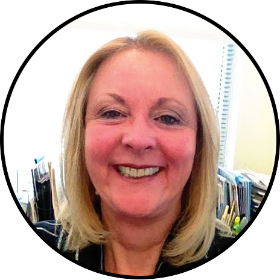
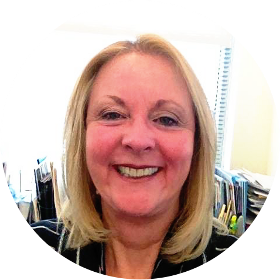
remove portrait border, add backdrop image, fix large screen styles

diff --git a/index.html b/index.html
@@ -26,7 +26,6 @@
     <p class="browserupgrade">You are using an <strong>outdated</strong> browser. Please <a href="https://browsehappy.com/">upgrade your browser</a> to improve your experience and security.</p>
   <![endif]-->
 
-  <!-- Add your site or application content here -->
   <header>
     <nav class="navbar navbar-expand-lg">
       <div class="container">
@@ -62,7 +61,7 @@
     </div>
   </div>
   
-  <div class="container-fluid title-content text-center">
+  <div class="container-fluid backdrop-wrapper">
     
   </div>
 
@@ -73,7 +72,7 @@
           <a class="nav-link active" id="about-tab" data-toggle="tab" href="#about" role="tab" aria-controls="" aria-selected="true" href="#">About</a>
         </li>
         <li class="nav-item">
-          <a class="nav-link" id="profile-tab" data-toggle="tab" href="#profile" role="tab" aria-controls="" aria-selected="true" href="#">JoAnn Ahern</a>
+          <a class="nav-link" id="profile-tab" data-toggle="tab" href="#profile" role="tab" aria-controls="" aria-selected="true" href="#">Staff</a>
         </li>
         <li class="nav-item">
           <a class="nav-link" id="location-tab" data-toggle="tab" href="#location" role="tab" aria-controls="" aria-selected="true" href="#">Location</a>
@@ -164,9 +163,27 @@
         <br>
         <!--Location Tab-->
         <div class="tab-pane fade" id="location" role="tabpanel" aria-labelledby="location-tab">
-          <h4>123 Some Street, CT</h4>
+          <h4>500 Purdy Hill Rd, CT 06468</h4>
           <h5>203-261-4277</h5>
           <div id="map"></div>
+          <div class="form-wrapper my-5">
+            <h4>Contact Us</h4>
+            <form>
+              <div class="form-group">
+                <label for="contact-form">Email address</label>
+                <input type="email" class="form-control" placeholder="name@example.com">
+              </div>
+              <div class="form-group">
+                <label for="contact-form">Phone number</label>
+                <input type="number" class="form-control" placeholder="555-555-5555">
+              </div>
+              <div class="form-group">
+                <label for="contact-form">Message</label>
+                <textarea class="form-control" rows="6"></textarea>
+              </div>
+              <button style="submit" class="btn btn-outline-success btn-block">Send</button>
+            </form>
+          </div>
         </div>
       </div>
     </div>
@@ -174,8 +191,9 @@
   
   <div class="footer">
     <div class="container d-flex h-100">
-      <div class="row justify-content-center align-self-center">
+      <div class="row justify-content-center align-self-center mx-auto">
         <a href="tel:2032614277">203-261-4277</a>
+        <span>&copy John E. Olson 2018</span>
       </div>
     </div>
   </div> 

diff --git a/css/main.css b/css/main.css
@@ -16,6 +16,10 @@ html {
     line-height: 1.4;
 }
 
+body {
+    max-width: 2560px;
+}
+
 /*
  * Remove text-shadow in selection highlight:
  * https://twitter.com/miketaylr/status/12228805301
@@ -122,10 +126,12 @@ h4, .nav-link {
     max-width: 90%;
     height: auto;
 }
-.title-content {
-    background-color: #0069cc;
+.backdrop-wrapper {
     height: 200px;
-    color: #fff;
+    background-color: #3351ab;
+    background-image: url(/img/backdrop.png);
+    background-position: center center;
+    background-repeat: no-repeat;
 }
 .main-content {
     margin-top: 40px;
@@ -145,6 +151,10 @@ h4, .nav-link {
     width: auto;
     max-width: 100%;
 }
+.form-wrapper {
+    max-width: 20em;
+    /*padding-top: 30px;*/
+}
 .footer a:link,
 .footer a:visited {
     color: #fff;
@@ -153,9 +163,6 @@ h4, .nav-link {
     background-color: #8490a5;
     height: 80px;
 }
-
-
-
 
 
 /* ==========================================================================
@@ -253,6 +260,12 @@ h4, .nav-link {
        (min-resolution: 1.25dppx),
        (min-resolution: 120dpi) {
     /* Style adjustments for high resolution devices */
+}
+
+@media screen and (min-width: 160em) {
+    body {
+        margin: 0 auto;
+    }
 }
 
 /* ==========================================================================
